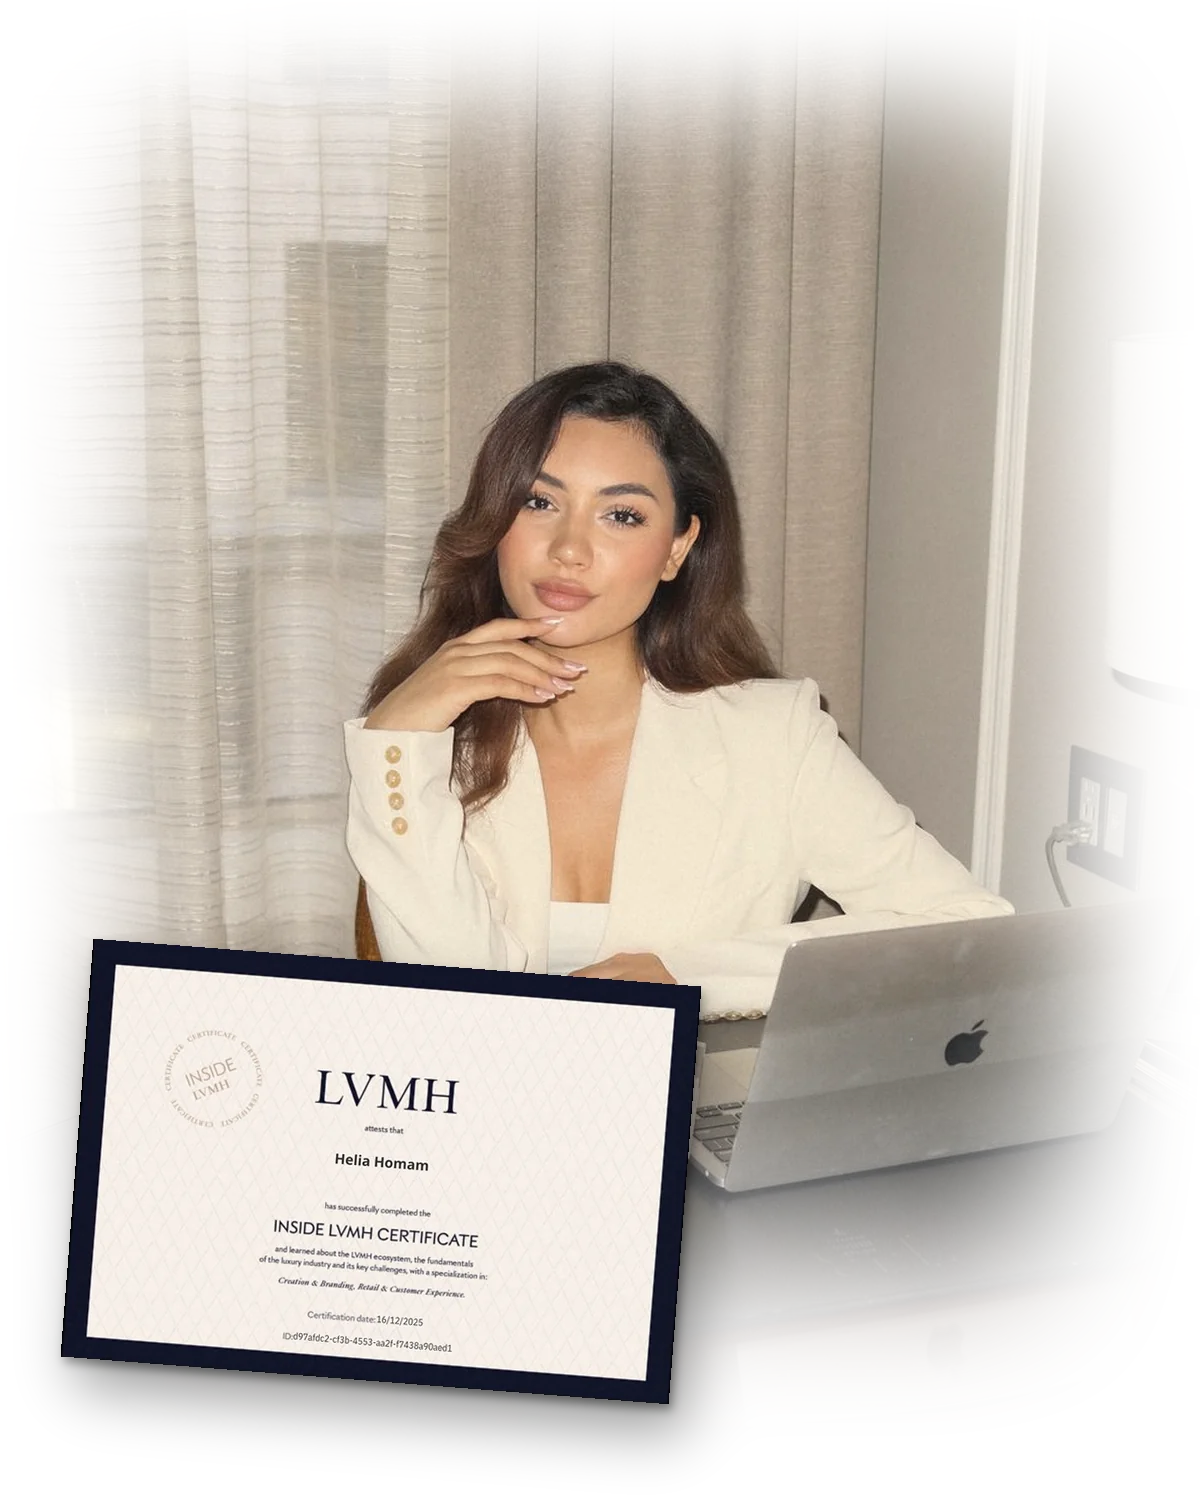
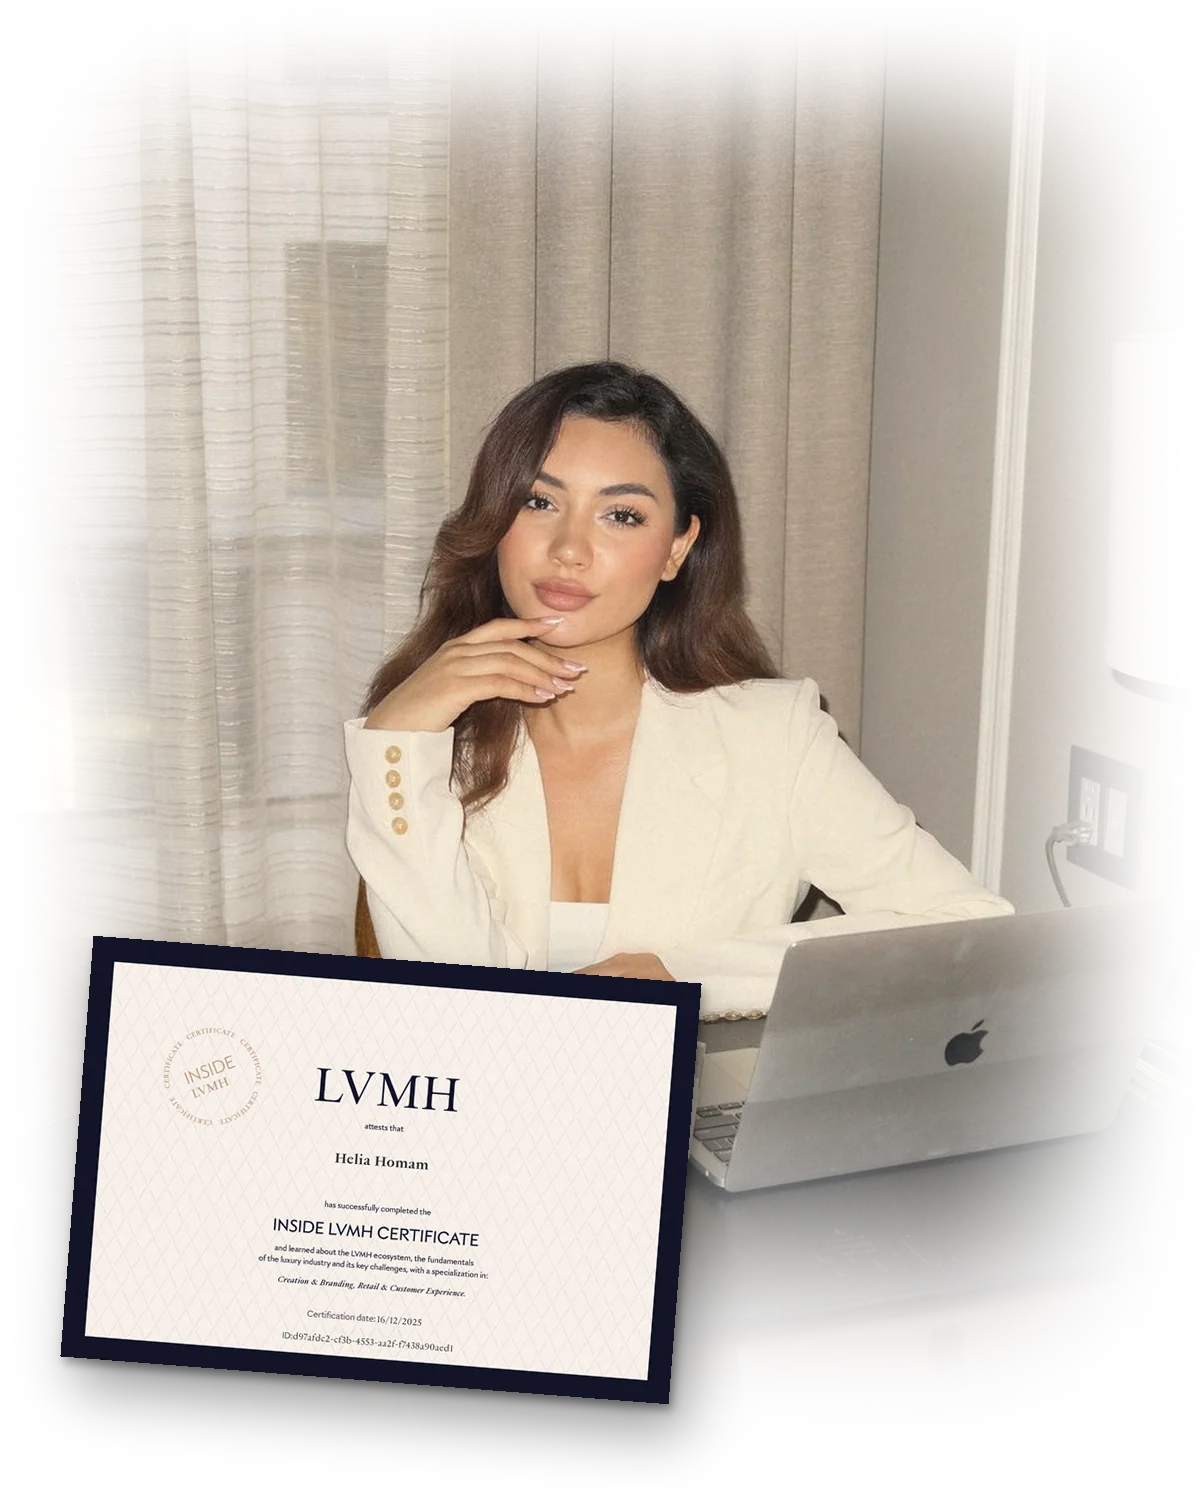
About: use the official LVMH certificate PDF for a sharper certificate
Claude-Session: https://claude.ai/code/session_01T8NNnyTMGnRn54J3c2BVxa

diff --git a/about.html b/about.html
@@ -266,7 +266,7 @@ footer { background: var(--black); padding: 80px 60px 40px; }
   </div>
   <div class="story-hero-img-wrap anim-right">
     <figure class="story-cert">
-      <img src="images/helia-lvmh-editorial.webp" srcset="images/helia-lvmh-editorial-sm.webp 600w, images/helia-lvmh-editorial.webp 1200w" sizes="(max-width: 960px) 92vw, 560px" alt="Helia Homam at her desk with her Inside LVMH Certificate in Creation &amp; Branding and Retail &amp; Customer Experience" width="1200" height="1500">
+      <img src="images/helia-lvmh-editorial.webp?v=2" srcset="images/helia-lvmh-editorial-sm.webp?v=2 600w, images/helia-lvmh-editorial.webp?v=2 1200w" sizes="(max-width: 960px) 92vw, 560px" alt="Helia Homam at her desk with her Inside LVMH Certificate in Creation &amp; Branding and Retail &amp; Customer Experience" width="1200" height="1500">
       <figcaption class="cert-cap"><span>Inside LVMH Certificate</span>Creation &amp; Branding · Retail &amp; Customer Experience</figcaption>
     </figure>
   </div>
